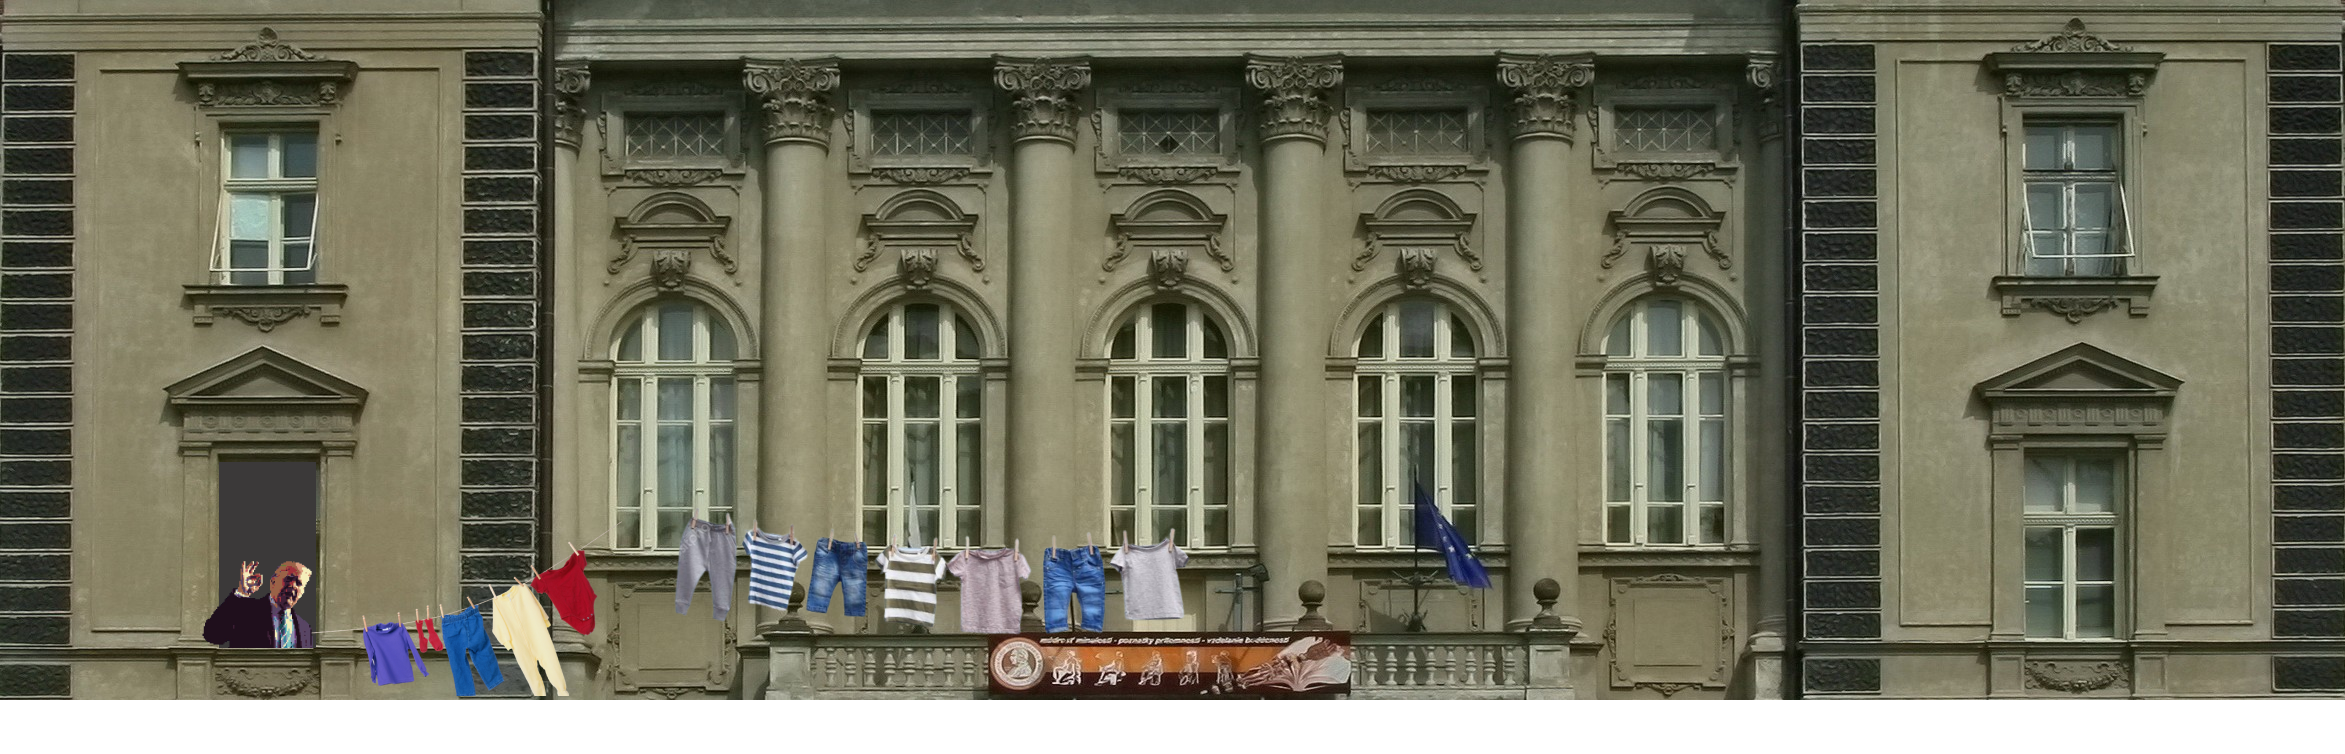
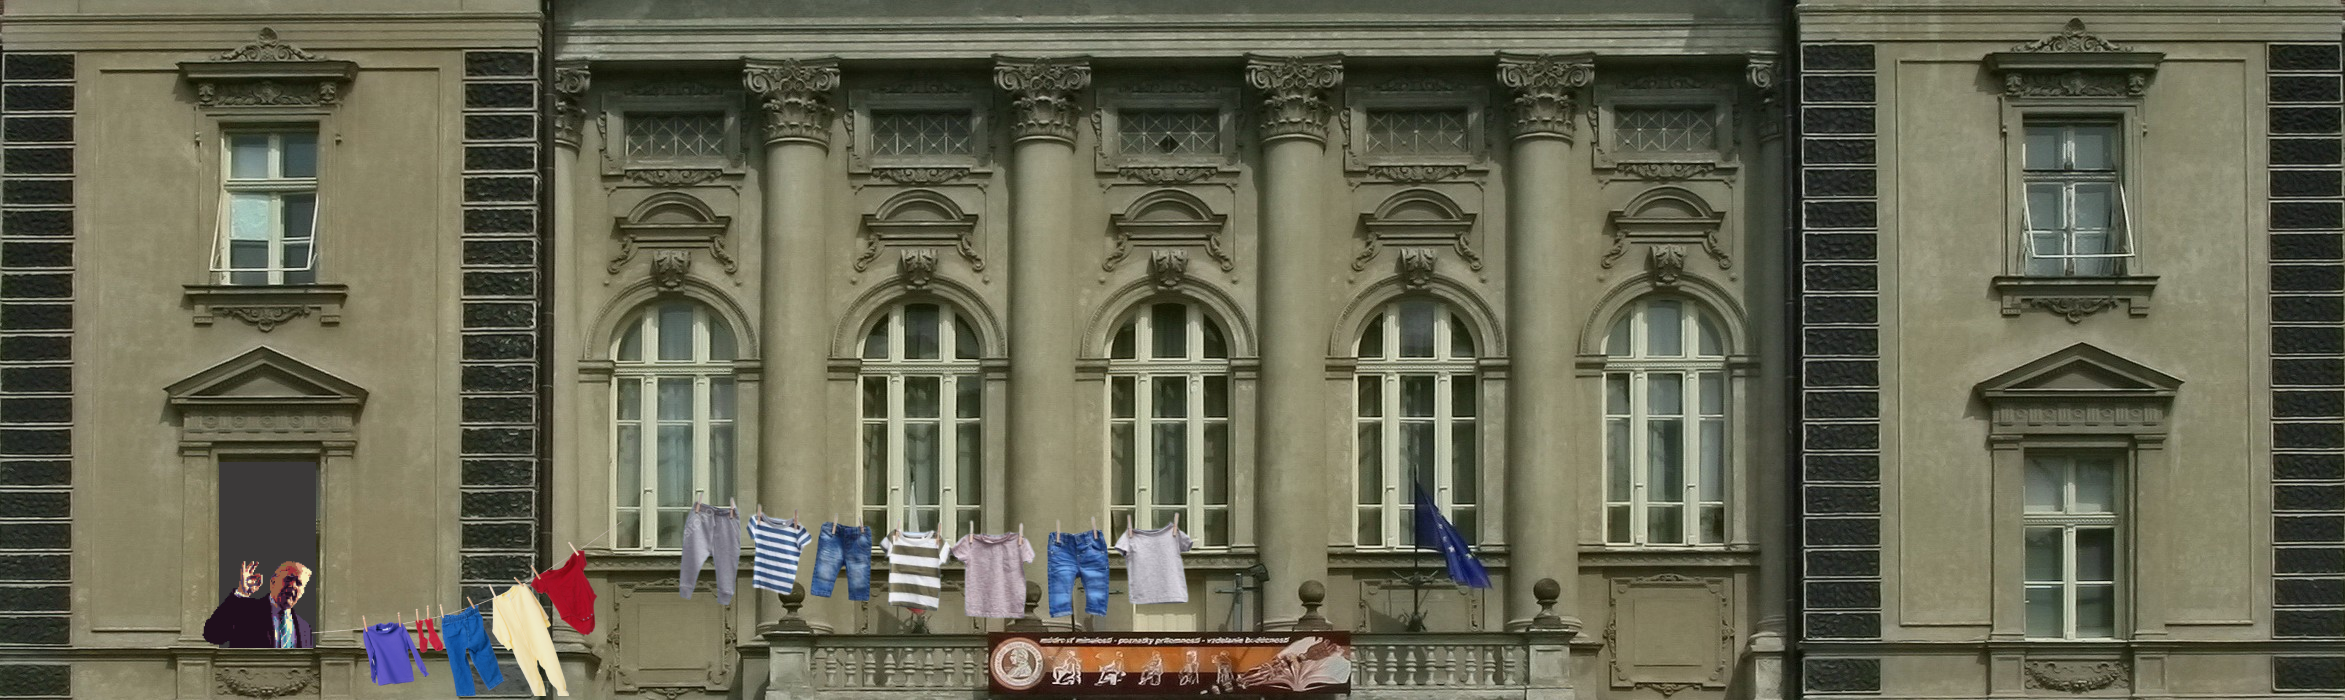
this is the only way

diff --git a/core/src/com/spseke/splhun/worldObjects/UPJSFloor.java b/core/src/com/spseke/splhun/worldObjects/UPJSFloor.java
@@ -28,10 +28,10 @@ public class UPJSFloor extends Entity {
     };
 
     public static final LevelConfig[] LEVELS = {
-            new LevelConfig("LeftBadTrump.png", new int[]{8,3,4,5,7}),
-            new LevelConfig("SidesFIre.png", new int[]{0,1,2,3,4}),
-            new LevelConfig("MiddleBadFico.png", new int[]{5,6,7,8,1}),
-            new LevelConfig("MiddleBadFIre.png", new int[]{5,6,7,8,0,2})
+            new LevelConfig("SidesFire", new int[]{0,1,2,3,4}),
+            new LevelConfig("LeftBadTrump", new int[]{8,3,4,5,7}),
+            new LevelConfig("MiddleBadFico", new int[]{5,6,7,8,1}),
+            new LevelConfig("MiddleBadFIre", new int[]{5,6,7,8,0,2})
     };
 
     Sprite sprite;
@@ -42,9 +42,15 @@ public class UPJSFloor extends Entity {
     float x = 0;
     float y = 0;
 
-    static  final Random random = new Random();
+    private static int lastIndex = -1;
+    private static final Random random = new Random();
     private static LevelConfig getRandomConfig(){
-        return LEVELS[random.nextInt(LEVELS.length -1)];
+        int newTexture = UPJSFloor.lastIndex;
+        while(newTexture == lastIndex){
+            newTexture = random.nextInt(LEVELS.length);
+        }
+        lastIndex = newTexture;
+        return LEVELS[newTexture];
     }
 
 
@@ -54,7 +60,7 @@ public class UPJSFloor extends Entity {
         this.x = x;
         this.y = y;
         currentConfig = getRandomConfig();
-        texture = new Texture("upjs_part.jpeg");
+        texture = new Texture(currentConfig.getTexture() + "-pixelicious.png");
         float aspectRatio = (float) texture.getWidth() / texture.getHeight();
         this.height = width / aspectRatio;
         this.width = width;
@@ -64,10 +70,15 @@ public class UPJSFloor extends Entity {
 
 
     private void createWindows(World world, float moveX, float moveY){
-        for(int i = 0; i < JUMP_ITEM_POSITIONS.length; i++) {
+        int[] enabledJumpItems =  currentConfig.getEnabledJumpItems();
+        for(int i = 0; i < enabledJumpItems.length; i++) {
             JumpItem jumpItem = new JumpItem();
 
-            jumpItem.setPosition(JUMP_ITEM_POSITIONS[i].getX(),   getCenter().getY() + JUMP_ITEM_POSITIONS[i].getY() );
+            jumpItem.setPosition(
+                    JUMP_ITEM_POSITIONS[enabledJumpItems[i]].getX(),
+                    getCenter().getY() + JUMP_ITEM_POSITIONS[enabledJumpItems[i]].getY()
+            );
+
             jumpItem.create(world);
         }
     }

diff --git a/core/src/com/spseke/splhun/GameScreen.java b/core/src/com/spseke/splhun/GameScreen.java
@@ -98,7 +98,7 @@ public class GameScreen implements Screen {
         camera.update();
 
         // this makes the world go down
-//        camera.translate(0,0.01f,0);
+        camera.translate(0,0.05f,0);
         batch.setProjectionMatrix(camera.combined);
 
         Gdx.gl.glClearColor(1, 1, 1, 1);
